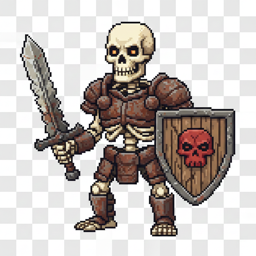
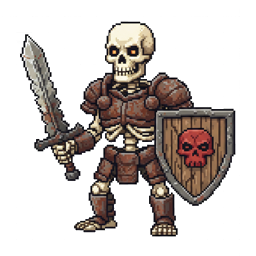
feat: add animation preview panel + green-screen bg removal pipeline
- Add AnimationPreview component showing flipbook-style single-frame
  preview with onion skin support (Frames tab, left panel)
- Split Frames tab into dual-panel layout: preview + packed sheet
- Process all 16 demo sprites to remove baked checkerboard backgrounds
- Add green-screen detection and chroma-key removal to bg-removal.ts
- Change AI generation prompt to use solid green (#00FF00) background
  for reliable background removal
- Update processFrames priority: green screen > checkerboard > RMBG-1.4

diff --git a/src/components/editor/AnimationPreview.tsx b/src/components/editor/AnimationPreview.tsx
@@ -1,0 +1,122 @@
+import { useEditorStore } from "@/stores/editor-store";
+import { useRef, useEffect } from "react";
+
+export function AnimationPreview() {
+  const canvasRef = useRef<HTMLCanvasElement>(null);
+  const containerRef = useRef<HTMLDivElement>(null);
+  const sprites = useEditorStore((s) => s.sprites);
+  const animation = useEditorStore((s) => s.animation);
+
+  const currentSpriteId = animation.frames[animation.currentFrame];
+  const currentSprite = sprites.find((s) => s.id === currentSpriteId);
+
+  useEffect(() => {
+    const canvas = canvasRef.current;
+    const container = containerRef.current;
+    if (!canvas || !container) return;
+    const ctx = canvas.getContext("2d");
+    if (!ctx) return;
+
+    const rect = container.getBoundingClientRect();
+    const cw = Math.floor(rect.width);
+    const ch = Math.floor(rect.height);
+    canvas.width = cw;
+    canvas.height = ch;
+
+    // Draw checkerboard background
+    const sz = 12;
+    for (let y = 0; y < ch; y += sz) {
+      for (let x = 0; x < cw; x += sz) {
+        ctx.fillStyle = (Math.floor(x / sz) + Math.floor(y / sz)) % 2 === 0 ? "#0A0A0A" : "#0F0F0F";
+        ctx.fillRect(x, y, sz, sz);
+      }
+    }
+
+    if (!currentSprite?.image) {
+      // No frames hint
+      ctx.fillStyle = "#333";
+      ctx.font = "12px 'JetBrains Mono', monospace";
+      ctx.textAlign = "center";
+      ctx.fillText("No animation frames", cw / 2, ch / 2 - 8);
+      ctx.font = "10px 'JetBrains Mono', monospace";
+      ctx.fillStyle = "#555";
+      ctx.fillText("Generate or import frames to preview", cw / 2, ch / 2 + 10);
+      return;
+    }
+
+    // Calculate scale to fit sprite in container with padding
+    const padding = 24;
+    const maxW = cw - padding * 2;
+    const maxH = ch - padding * 2;
+    const scale = Math.min(maxW / currentSprite.width, maxH / currentSprite.height);
+    const drawW = currentSprite.width * scale;
+    const drawH = currentSprite.height * scale;
+    const drawX = (cw - drawW) / 2;
+    const drawY = (ch - drawH) / 2;
+
+    // Onion skin: draw previous and next frames as ghosts
+    if (animation.onionSkin && !animation.playing && animation.frames.length > 1) {
+      const cur = animation.currentFrame;
+      const ghosts: { idx: number; alpha: number; tint: string }[] = [];
+      if (cur > 0) ghosts.push({ idx: cur - 1, alpha: 0.25, tint: "rgba(59,130,246," });
+      if (cur < animation.frames.length - 1) ghosts.push({ idx: cur + 1, alpha: 0.12, tint: "rgba(239,68,68," });
+      for (const g of ghosts) {
+        const gs = sprites.find((s) => s.id === animation.frames[g.idx]);
+        if (!gs?.image) continue;
+        ctx.save();
+        ctx.globalAlpha = g.alpha;
+        ctx.imageSmoothingEnabled = scale < 2;
+        ctx.drawImage(gs.image, drawX, drawY, drawW, drawH);
+        ctx.fillStyle = g.tint + (g.alpha * 0.5) + ")";
+        ctx.fillRect(drawX, drawY, drawW, drawH);
+        ctx.restore();
+      }
+    }
+
+    // Draw current frame
+    ctx.save();
+    ctx.imageSmoothingEnabled = scale < 2;
+    if (scale >= 2) ctx.imageSmoothingQuality = "low";
+    ctx.drawImage(currentSprite.image, drawX, drawY, drawW, drawH);
+    ctx.restore();
+
+    // Selection highlight
+    ctx.strokeStyle = "rgba(6,182,212,0.4)";
+    ctx.lineWidth = 1;
+    ctx.strokeRect(drawX, drawY, drawW, drawH);
+
+  }, [currentSprite, animation, sprites]);
+
+  return (
+    <div
+      ref={containerRef}
+      className="relative flex-1 overflow-hidden"
+      style={{ borderRight: "1px solid var(--border)" }}
+    >
+      {/* Label */}
+      <div
+        className="absolute z-10"
+        style={{
+          top: 4, left: 8,
+          fontFamily: "var(--font-mono)", fontSize: 8,
+          color: "var(--text-muted)", textTransform: "uppercase",
+          letterSpacing: "0.08em",
+        }}
+      >
+        Preview
+        {animation.frames.length > 0 && (
+          <span style={{ color: "var(--cyan)", marginLeft: 6 }}>
+            {String(animation.currentFrame + 1).padStart(2, "0")}/{String(animation.frames.length).padStart(2, "0")}
+          </span>
+        )}
+      </div>
+
+      {/* Canvas */}
+      <canvas
+        ref={canvasRef}
+        className="absolute inset-0 w-full h-full"
+        style={{ imageRendering: "pixelated" }}
+      />
+    </div>
+  );
+}

diff --git a/src/lib/bg-removal.ts b/src/lib/bg-removal.ts
@@ -3,6 +3,66 @@ import { pipeline, env, type RawImage } from "@huggingface/transformers";
 // Use CDN for WASM/ONNX backends in browser
 env.allowLocalModels = false;
 
+// --- Green-screen (chroma key) removal ---
+
+/**
+ * Detect if an image has a solid bright green (#00FF00) background.
+ * Checks corners for dominant green pixels.
+ */
+export function detectGreenScreen(imageData: ImageData): boolean {
+  const { data, width, height } = imageData;
+  const size = 8;
+  let greenCount = 0;
+  let total = 0;
+
+  // Sample all 4 corners
+  const corners = [
+    [0, 0], [width - size, 0],
+    [0, height - size], [width - size, height - size],
+  ];
+  for (const [cx, cy] of corners) {
+    for (let y = cy; y < cy + size && y < height; y++) {
+      for (let x = cx; x < cx + size && x < width; x++) {
+        const idx = (y * width + x) * 4;
+        const r = data[idx], g = data[idx + 1], b = data[idx + 2];
+        // Green-ish: G is dominant, R and B are low
+        if (g > 150 && g > r + 50 && g > b + 50) greenCount++;
+        total++;
+      }
+    }
+  }
+
+  return total > 0 && greenCount / total > 0.5;
+}
+
+/**
+ * Remove solid green background with anti-aliased edges.
+ * Much more reliable than ML-based removal for AI-generated sprites.
+ */
+export function removeGreenScreen(imageData: ImageData): ImageData {
+  const { data, width, height } = imageData;
+  const out = new ImageData(new Uint8ClampedArray(data), width, height);
+  const d = out.data;
+  const tolerance = 50;
+
+  for (let i = 0; i < d.length; i += 4) {
+    const r = d[i], g = d[i + 1], b = d[i + 2];
+    // "Greenness" = how much green dominates over red and blue
+    const greenness = g - Math.max(r, b);
+    if (greenness > 0) {
+      // Scale alpha: fully green → 0, transitional → gradient
+      const alpha = greenness > tolerance ? 0 : Math.round(255 * (1 - greenness / tolerance));
+      d[i + 3] = Math.min(d[i + 3], alpha);
+      // De-spill: reduce green tint on semi-transparent edge pixels
+      if (alpha > 0 && alpha < 255) {
+        d[i + 1] = Math.max(0, g - Math.round(greenness * 0.5));
+      }
+    }
+  }
+
+  return out;
+}
+
 // --- Checkerboard detection & removal ---
 
 interface CheckerResult {
@@ -197,7 +257,7 @@ export async function processFrames(
 ): Promise<HTMLImageElement[]> {
   const results: HTMLImageElement[] = [];
 
-  // Check first frame for checkerboard
+  // Detect background type from first frame
   const canvas = document.createElement("canvas");
   const firstFrame = frames[0];
   canvas.width = firstFrame.naturalWidth;
@@ -205,7 +265,11 @@ export async function processFrames(
   const ctx = canvas.getContext("2d")!;
   ctx.drawImage(firstFrame, 0, 0);
   const firstData = ctx.getImageData(0, 0, canvas.width, canvas.height);
-  const checker = detectCheckerboard(firstData);
+
+  // Priority: green screen > checkerboard > RMBG-1.4
+  const isGreen = detectGreenScreen(firstData);
+  const checker = !isGreen ? detectCheckerboard(firstData) : { detected: false } as CheckerResult;
+  const method = isGreen ? "green" : checker.detected ? "checker" : "rmbg";
 
   for (let i = 0; i < frames.length; i++) {
     const frame = frames[i];
@@ -215,7 +279,17 @@ export async function processFrames(
     const fCtx = c.getContext("2d")!;
     fCtx.drawImage(frame, 0, 0);
 
-    if (checker.detected && checker.color1 && checker.color2) {
+    if (method === "green") {
+      const imgData = fCtx.getImageData(0, 0, c.width, c.height);
+      const processed = removeGreenScreen(imgData);
+      fCtx.putImageData(processed, 0, 0);
+      const img = new Image();
+      await new Promise<void>((resolve) => {
+        img.onload = () => resolve();
+        img.src = c.toDataURL("image/png");
+      });
+      results.push(img);
+    } else if (method === "checker" && checker.color1 && checker.color2) {
       const imgData = fCtx.getImageData(0, 0, c.width, c.height);
       const processed = removeCheckerboard(imgData, checker.color1, checker.color2);
       fCtx.putImageData(processed, 0, 0);

diff --git a/src/app/editor/page.tsx b/src/app/editor/page.tsx
@@ -6,6 +6,7 @@ import { EditorCanvas } from "@/components/editor/EditorCanvas";
 import { SettingsPanel } from "@/components/editor/SettingsPanel";
 import { AnimationTimeline } from "@/components/editor/AnimationTimeline";
 import { AssetGrid } from "@/components/editor/AssetGrid";
+import { AnimationPreview } from "@/components/editor/AnimationPreview";
 import { AiGenerateModal } from "@/components/editor/AiGenerateModal";
 import { AiProgressToast } from "@/components/editor/AiProgressToast";
 import { useAutoPack } from "@/hooks/use-auto-pack";
@@ -80,7 +81,14 @@ export default function EditorPage() {
       >
         <EditorToolbar />
         <SpriteList />
-        <EditorCanvas />
+        {activeTab === "frames" ? (
+          <div className="flex" style={{ overflow: "hidden", minWidth: 0 }}>
+            <AnimationPreview />
+            <EditorCanvas />
+          </div>
+        ) : (
+          <EditorCanvas />
+        )}
         <SettingsPanel />
         {activeTab === "frames" ? <AnimationTimeline /> : <AssetGrid />}
       </div>

diff --git a/src/lib/prompt-templates.ts b/src/lib/prompt-templates.ts
@@ -47,7 +47,7 @@ export function buildSystemPrompt(
     `Create a sprite sheet with exactly ${frameCount} ${mode === "sequence" ? "animation frames" : "items"} arranged in a ${rows}×${cols} grid (${rows} rows, ${cols} columns).`,
     `Each cell must be exactly the same size.`,
     `${style} style, suitable for game engine import.`,
-    `Use a solid checkerboard gray-white background behind each ${mode === "sequence" ? "frame" : "item"}.`,
+    `Use a SOLID BRIGHT GREEN (#00FF00) background behind each ${mode === "sequence" ? "frame" : "item"}. The background MUST be a single uniform green color with NO patterns, gradients, or checkerboards.`,
     `DO NOT add labels, numbers, borders, or any text between cells.`,
   ];
 

diff --git a/src/components/editor/EditorCanvas.tsx b/src/components/editor/EditorCanvas.tsx
@@ -149,7 +149,7 @@ export function EditorCanvas() {
   }, [addSprites]);
 
   return (
-    <div ref={containerRef} className="relative overflow-hidden flex flex-col"
+    <div ref={containerRef} className="relative overflow-hidden flex flex-col flex-1"
       style={{ background: "var(--bg)" }}
       onDragOver={(e) => { e.preventDefault(); e.stopPropagation(); }}
       onDrop={handleDrop}>
